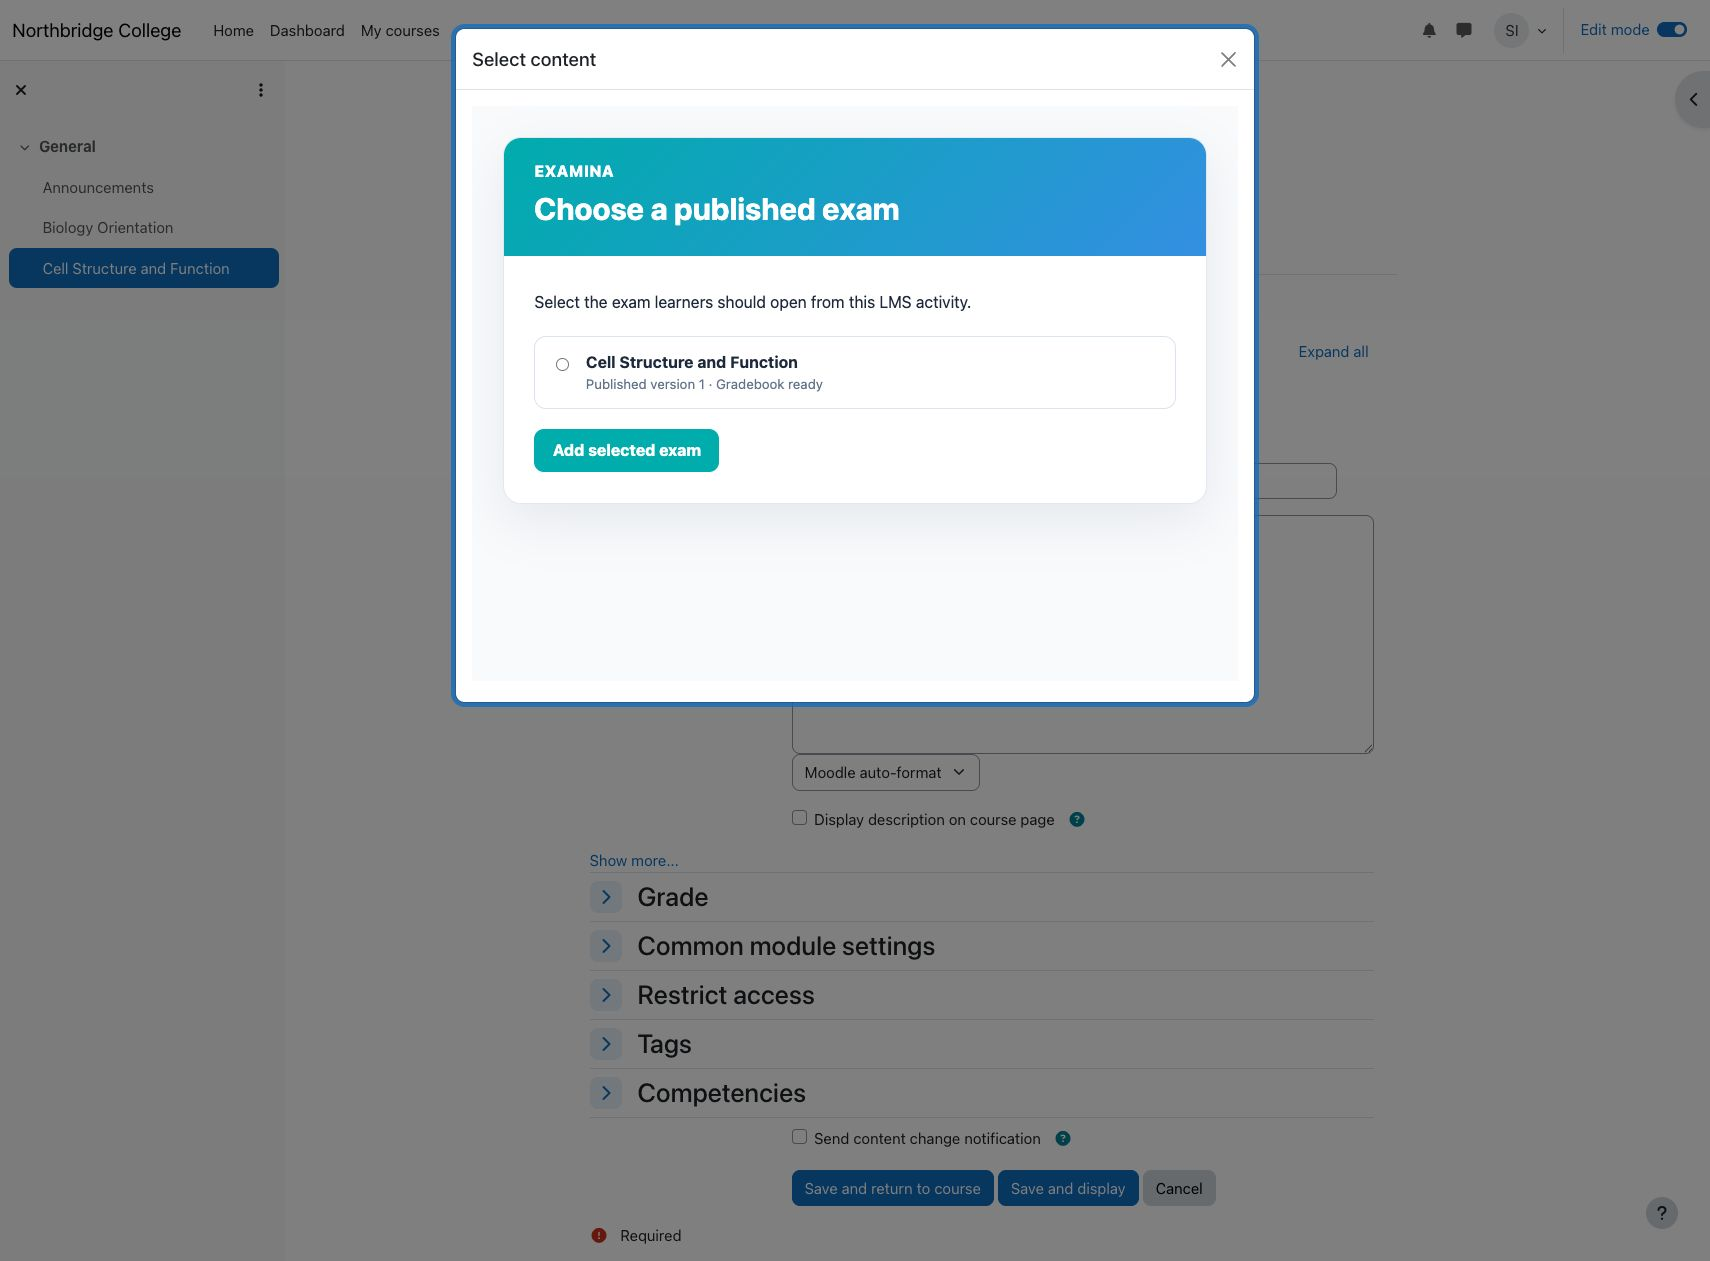
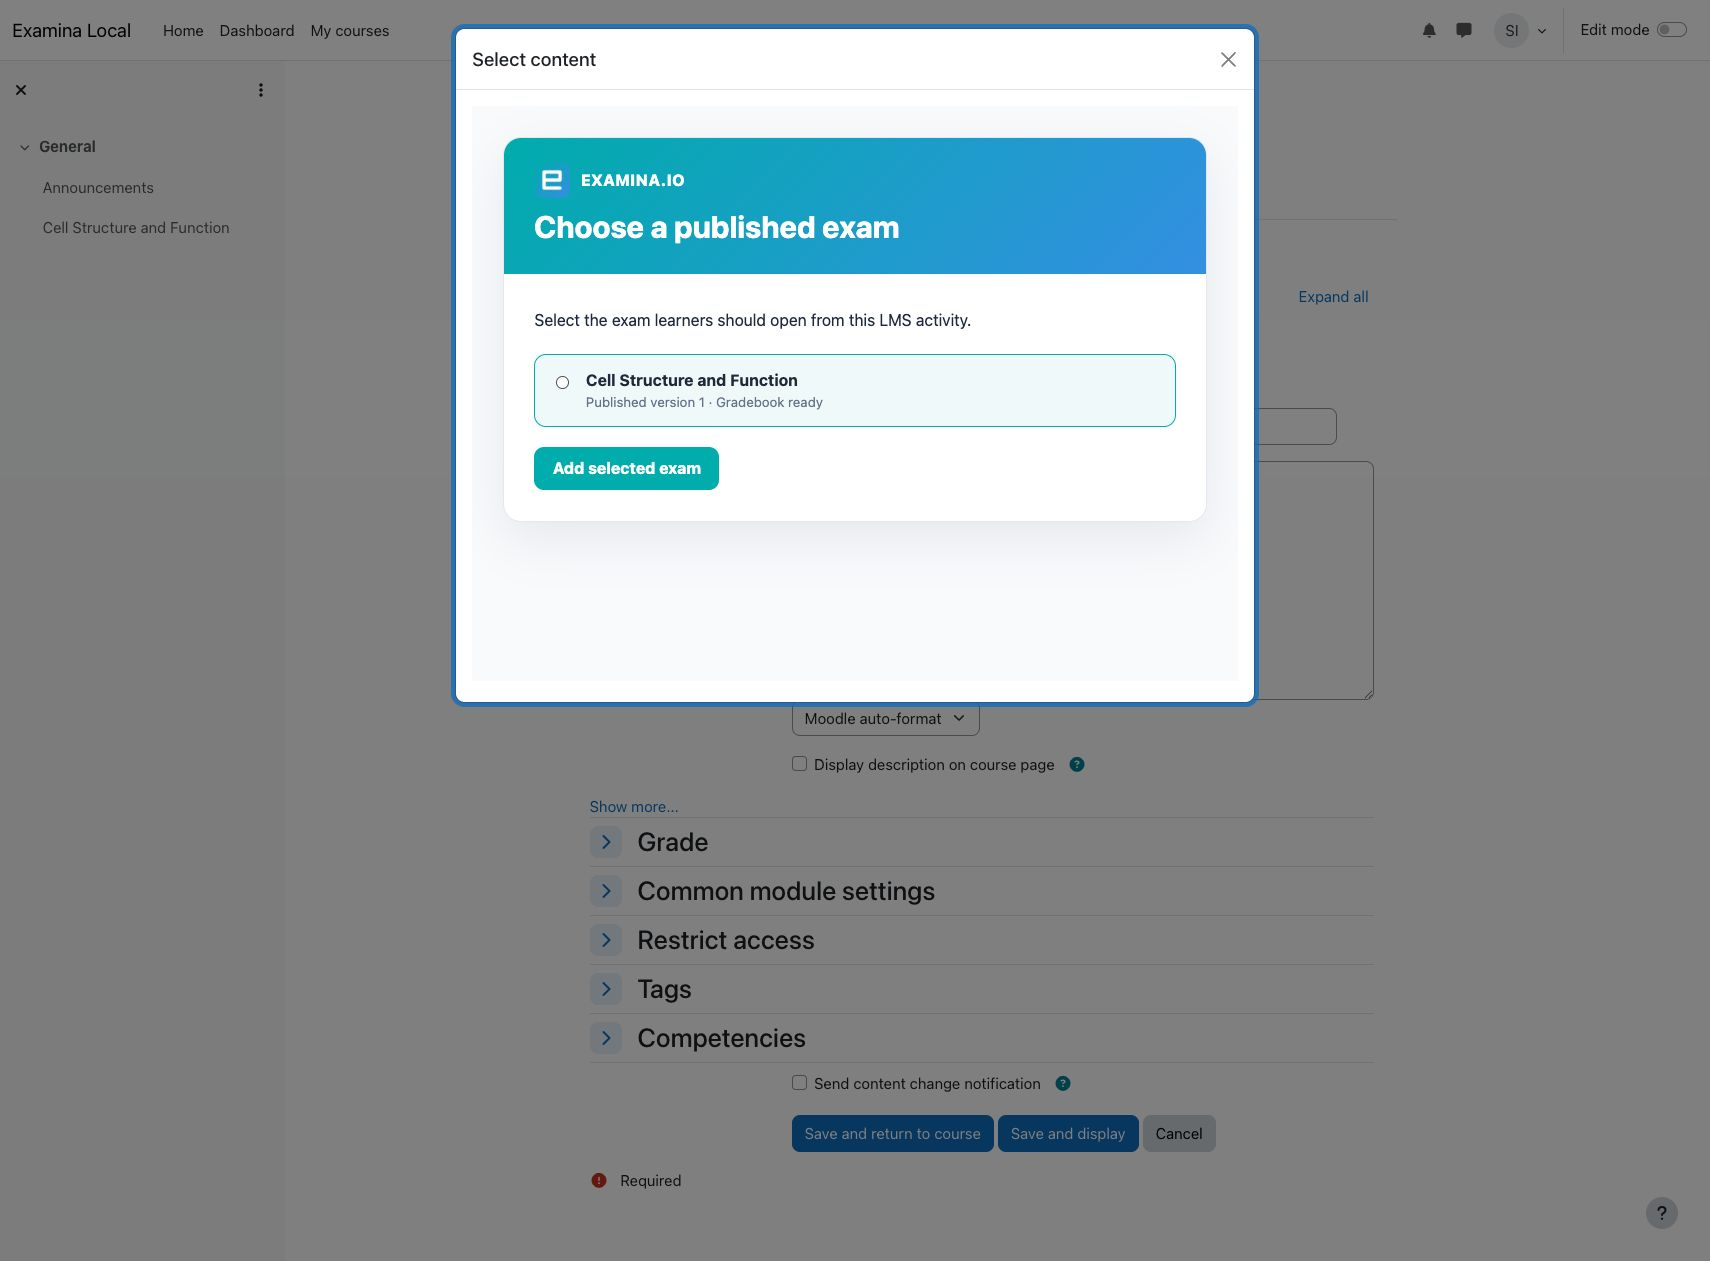
Refresh LMS integration branding screenshots (#23)

diff --git a/docs/integrations/canvas-lms.md b/docs/integrations/canvas-lms.md
@@ -150,6 +150,7 @@ with the exact value shown by examina.io:
 | Redirect URI | LTI launch and Deep Linking URLs, one per line |
 | Assignment Selection target link | Deep Linking |
 | Public JWK URL | Public key set (JWKS) |
+| Tool Icon URL | `https://www.examina.io/img/logo128.png` |
 
 The production browser-facing routes begin with `https://www.examina.io`.
 For example, the launch URL is
@@ -159,6 +160,11 @@ registration card because the JWKS URL includes the registration identifier.
 Save the key and turn it **On**. In **Apps → Manage**, open **examina.io
 assessments**, confirm that the App is on, and make it available to the root
 account or to the approved sub-accounts and courses.
+
+The **Tool Icon URL** gives instructors and administrators a recognizable
+examina.io logo in Canvas. If an existing installation still shows Canvas's
+generic external-tool icon, update the Developer Key with this value and
+refresh or reinstall the App so Canvas reloads its registration metadata.
 
 ![The active examina.io App in a Canvas root account](../assets/images/integrations/canvas/02-canvas-installed-app.png)
 
